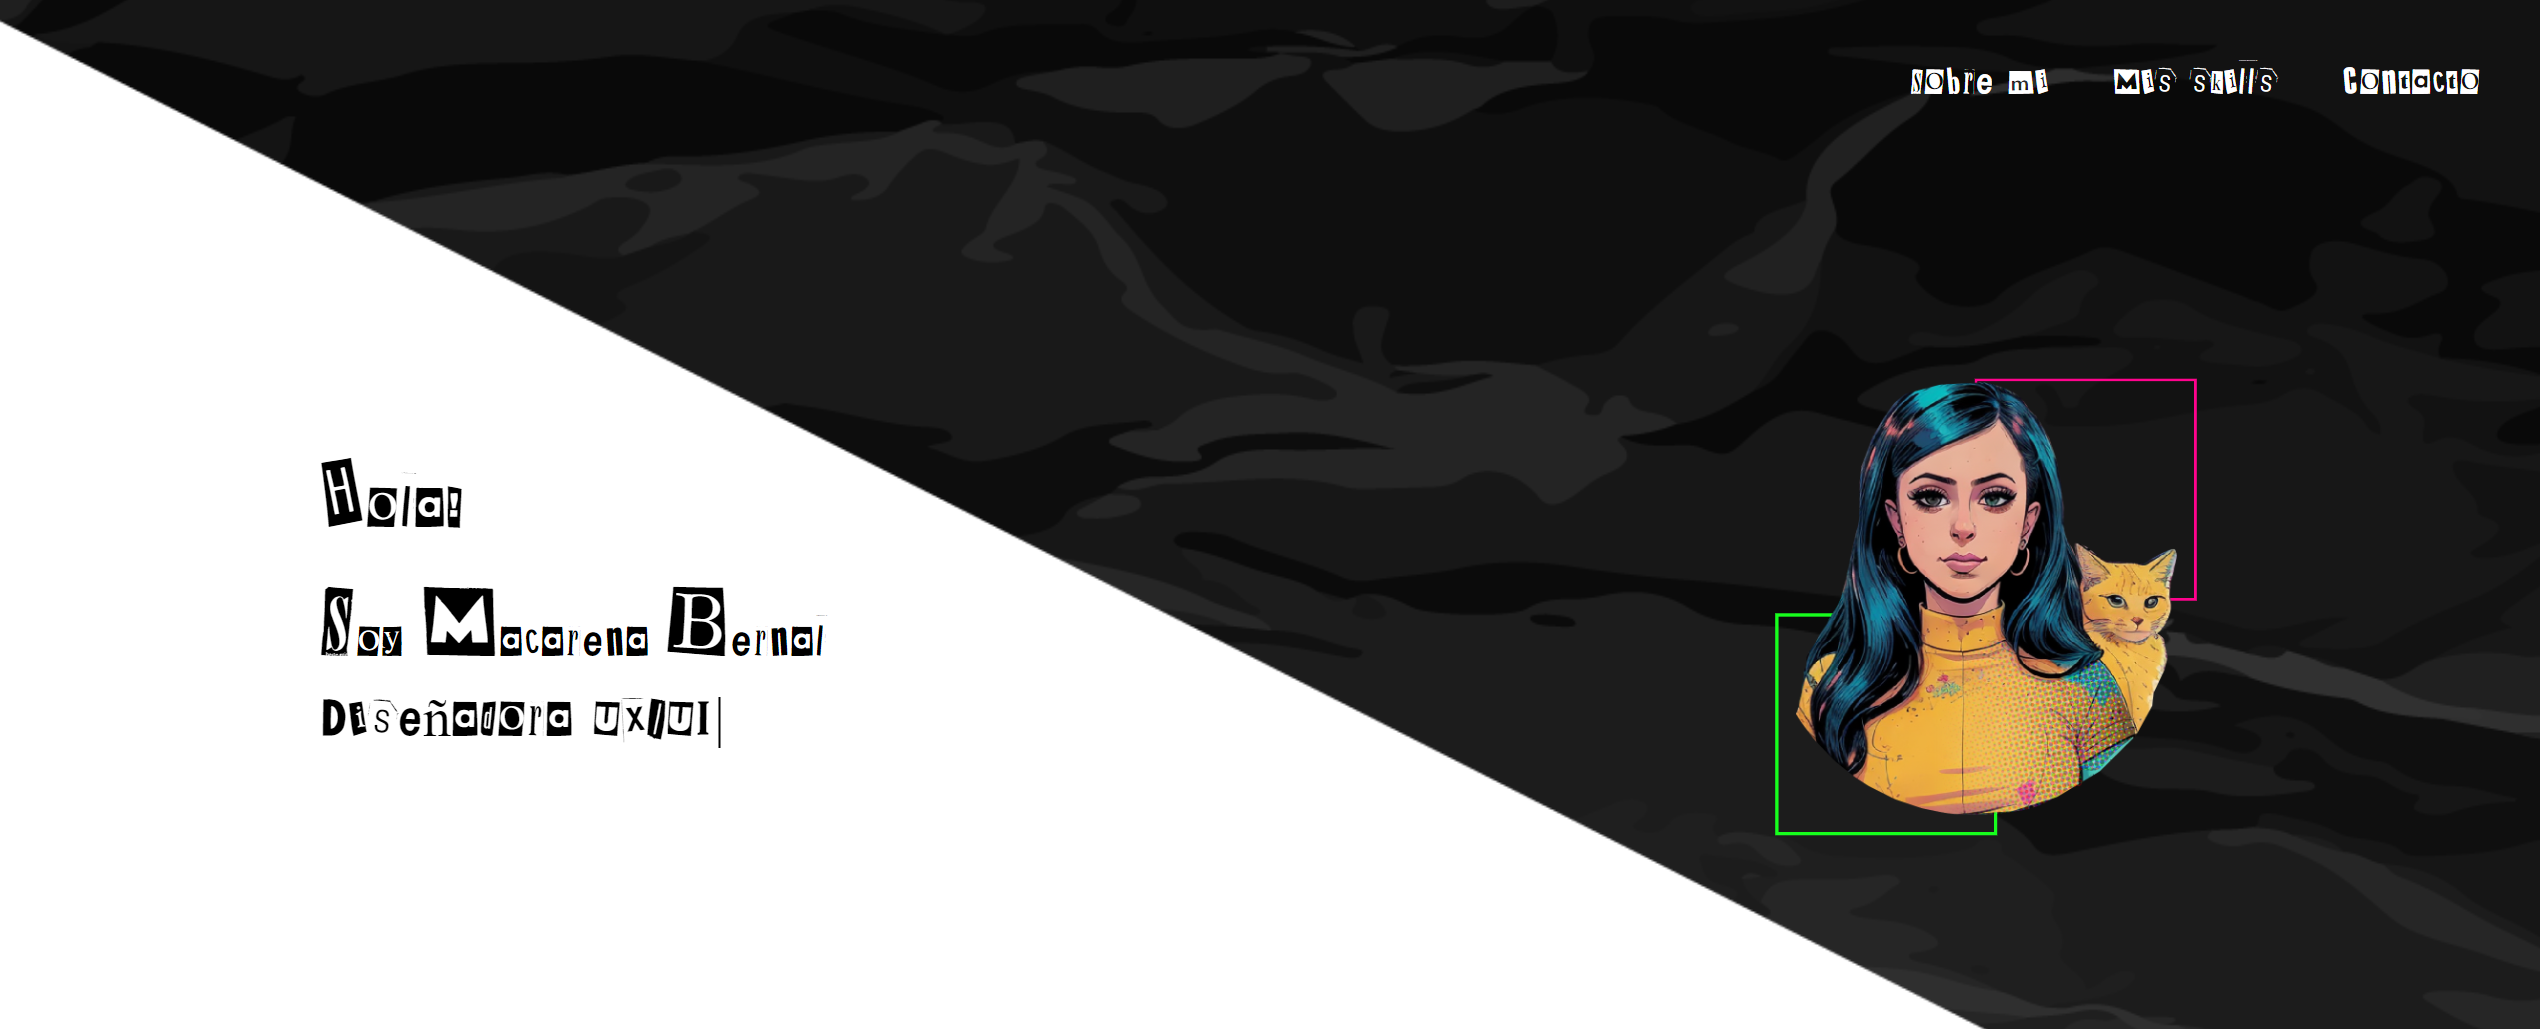
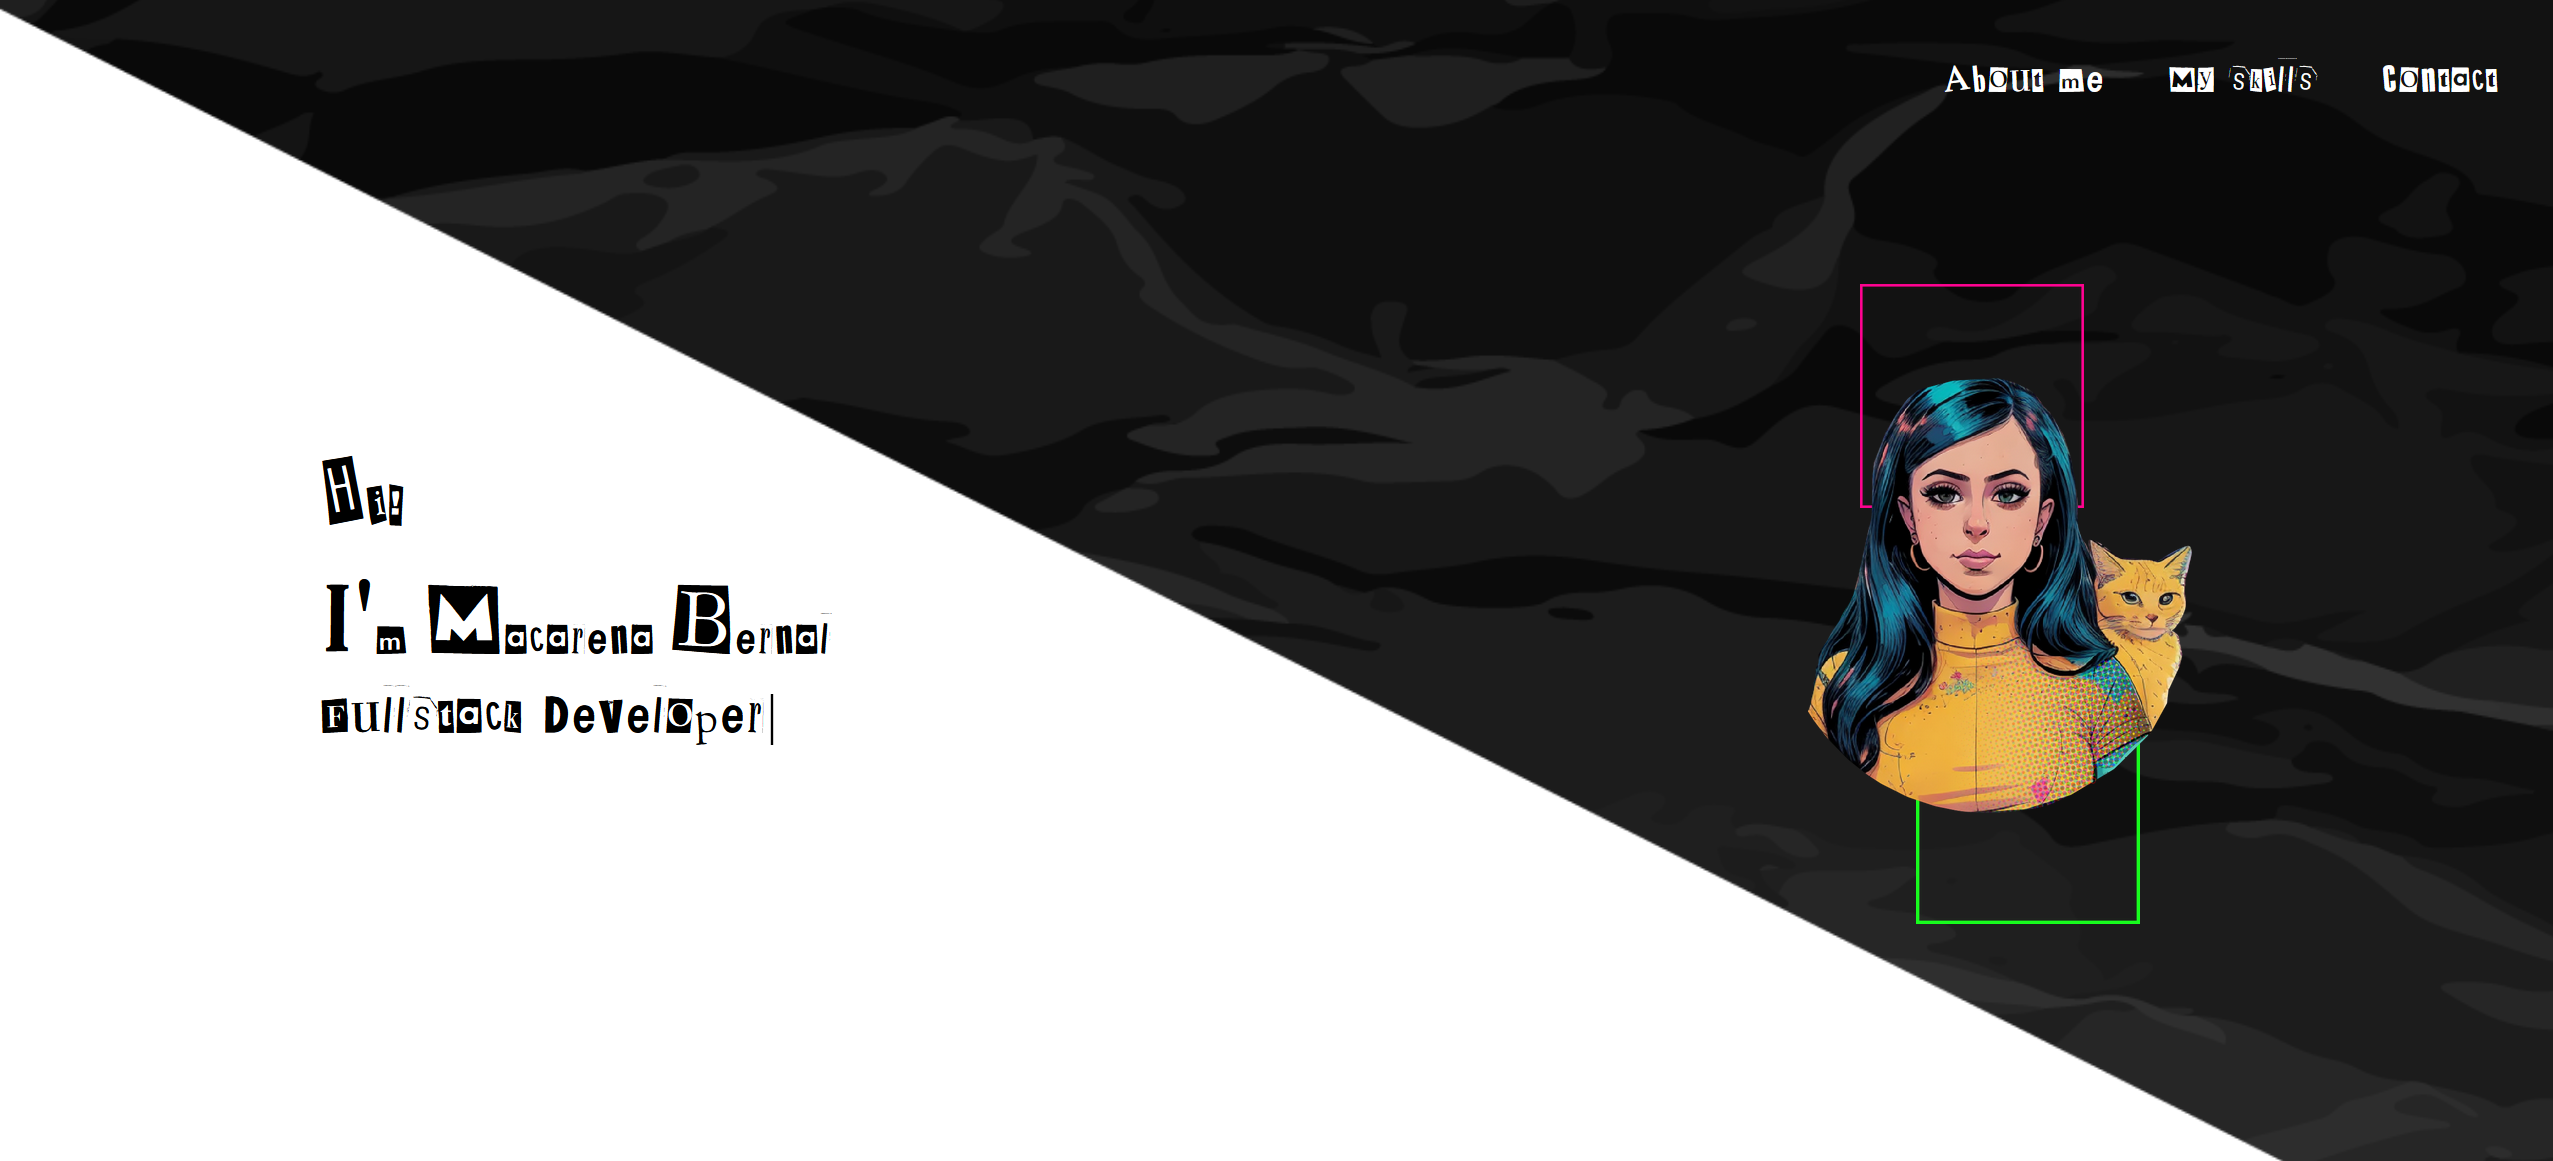
FIXED presentation img

diff --git a/README.md b/README.md
@@ -44,5 +44,5 @@ I am Macarena Bernal, a passionate educator and technology professional. My jour
 * 💼 <a href="https://www.linkedin.com/in/macarena-bernal-ramirez/">Linkedin</a>
 * 💼 <a href="https://www.behance.net/macarenbernal">Behance</a>
 * 💼 <a href="https://github.com/Mcsand22">Github</a>
-* 🔗 <a href="https://mcsand22.github.io/studiobym/">Website</a>
+* 🔗 <a href="https://mcsand22.github.io/studiobym-en/">Website</a>
 * 📧 <a href="mailto:mabernal94@gmail.com" name="mail">Gmail</a>
